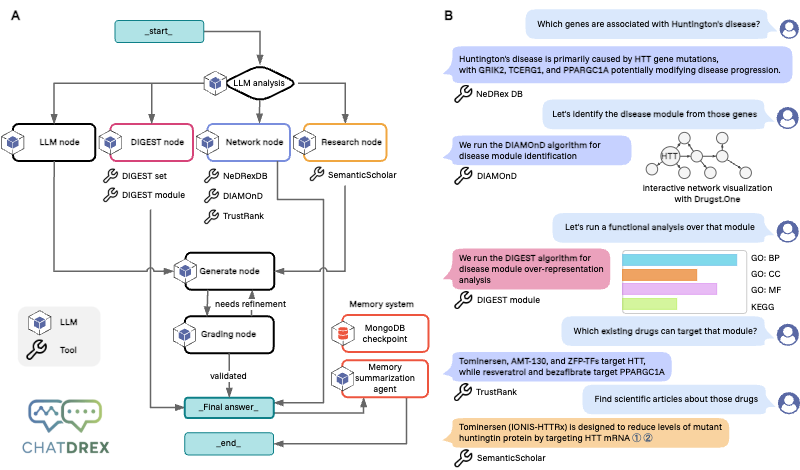
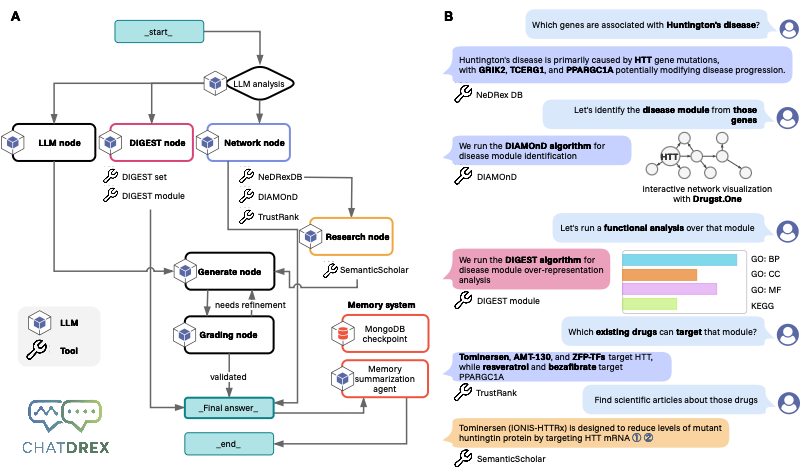
Worked a little bit on fixing develope

diff --git a/src/app/modules/chat/service/paper-chat.service.ts b/src/app/modules/chat/service/paper-chat.service.ts
@@ -18,7 +18,8 @@ export class PaperChatWebSocketService {
   private clientId?: string;
 
   connect(clientId: string): Observable<ResponseDTO> {
-    console.log('Connecting to WebSocket...');
+    const wsUrl = `${environment.wsBaseUrl}/${clientId}`;
+    console.log('Connecting to WebSocket:', wsUrl);
     if (!clientId) {
       clientId = uuidv4();
     }
@@ -28,12 +29,16 @@ export class PaperChatWebSocketService {
       this.disconnect();
     }
     this.messageSubject = new Subject<ResponseDTO>();
-    this.socket$ = webSocket(`${environment.wsBaseUrl}/${this.clientId}`);
+    this.socket$ = webSocket(wsUrl);
 
     this.socket$.subscribe({
-      next: (message: any) => this.messageSubject.next(message),
+      next: (message: any) => {
+        console.log('WebSocket message received:', message);
+        this.messageSubject.next(message);
+      },
       error: (error) => {
         console.error('WebSocket error:', error);
+        console.error('WebSocket URL was:', wsUrl);
         this.reconnect(clientId);
       },
       complete: () => {
@@ -47,15 +52,15 @@ export class PaperChatWebSocketService {
 
   sendMessage(message: string, threadId: string): void {
     if (this.socket$) {
-      const token = "TODO"
       const request: RequestDTO = {
-        token: token,
         threadId: threadId,
         messageId: uuidv4(),
         message: message,
         messageType: MessageType.SENDING,
-        timestamp: Date.now()
+        timestamp: Math.floor(Date.now() / 1000),
+        llmModel: 'gemini-pro'
       };
+      console.log('Sending message:', request);
       this.socket$.next(request);
       this.store.dispatch(requestedMessage({requestedMessage: request}));
     } else {

diff --git a/src/app/modules/chat/service/paper-chat.effects.ts b/src/app/modules/chat/service/paper-chat.effects.ts
@@ -99,9 +99,8 @@ export class PaperChatEffects {
       ofType(PaperChatActions.connectToChat),
       withLatestFrom(this.store.select(getAllThreadIds)),
       mergeMap(([{threadId}, threadIds]) =>
-        threadIds.includes(threadId)
-          ? of(PaperChatActions.connectToChatSuccess({threadId}))
-          : of(PaperChatActions.connectToChatFailure())
+        // Always allow connection - threadId will be added to state if it doesn't exist
+        of(PaperChatActions.connectToChatSuccess({threadId}))
       ),
       catchError(() =>
         of(PaperChatActions.connectToChatFailure())

diff --git a/src/app/utils/models/tool-tips.ts b/src/app/utils/models/tool-tips.ts
@@ -22,19 +22,6 @@ export const toolTips: ToolTip[] = [
     ]
   },
   {
-    command: '/research',
-    icon: 'science',
-    name: 'Research',
-    tip: 'Use remote academic research',
-    explanation: 'Ask current Research question against academic papers',
-    hints: [
-      'What is cancer?',
-      'What is diabetes?',
-      'What is the latest found genes?',
-      'What is the latest drug on cancer?'
-    ]
-  },
-  {
     command: '/diamond',
     icon: 'construction',
     name: 'Diamond',

diff --git a/src/environments/environment.development.ts b/src/environments/environment.development.ts
@@ -1,5 +1,7 @@
 export const environment = {
-  apiBaseUrl: 'http://localhost:8000',
-  //wsBaseUrl: 'ws://localhost:8000/ws',
-  wsBaseUrl: 'ws://localhost:8000/ws',
+  apiBaseUrl: 'http://localhost:8000',  // Local development port
+  wsBaseUrl: 'ws://localhost:8000/ws',   // WebSocket endpoint
 };
+
+//apiBaseUrl: 'https://apps.cosy.bio/chatdrex-api',
+//wsBaseUrl: 'wss://apps.cosy.bio/chatdrex-api/ws',

diff --git a/src/app/modules/chat/dto/paper-chat.ts b/src/app/modules/chat/dto/paper-chat.ts
@@ -9,6 +9,7 @@ export interface RequestDTO {
   message: string;
   messageType: MessageType;
   timestamp: number;
+  llmModel?: string;
 }
 
 export interface ResponseDTO {
